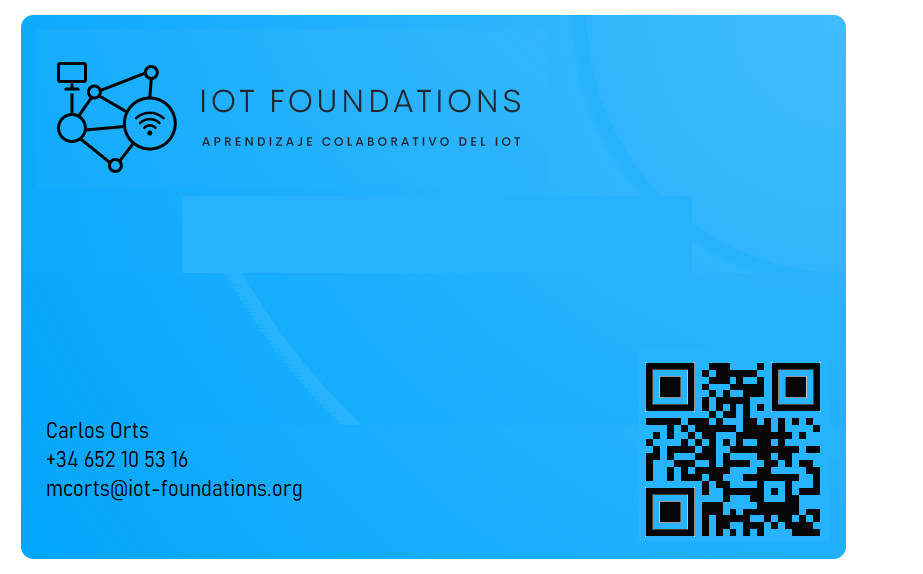
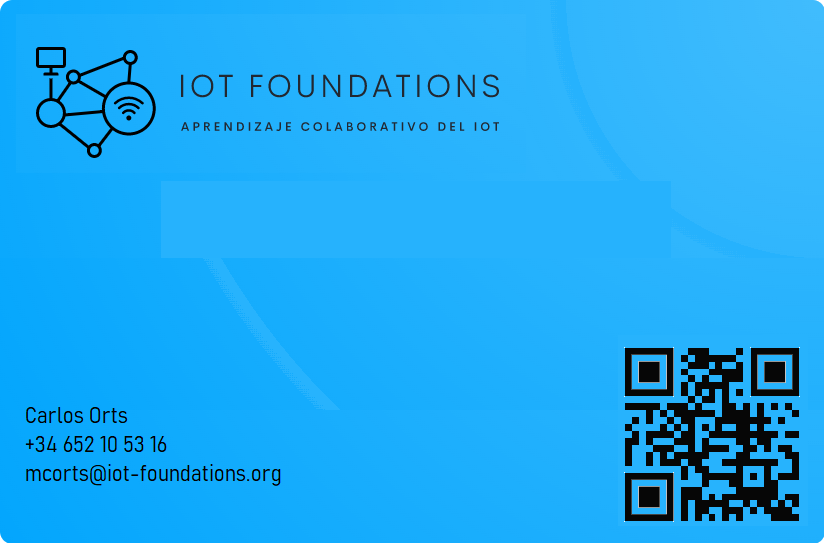
v0
business card

Changed region(s): [[0.0, 0.0, 1.0, 1.0]]

diff --git a/_includes/team.html b/_includes/team.html
@@ -27,7 +27,7 @@
                   </div>
               </div>
             {% endfor %}
-            <img src="img/team/businesscard_mcorts.png" width=500 align="right" />
+            <img src="img/team/businesscard_mcorts.png" align="right" />
         </div>
     </div>
 </section>
